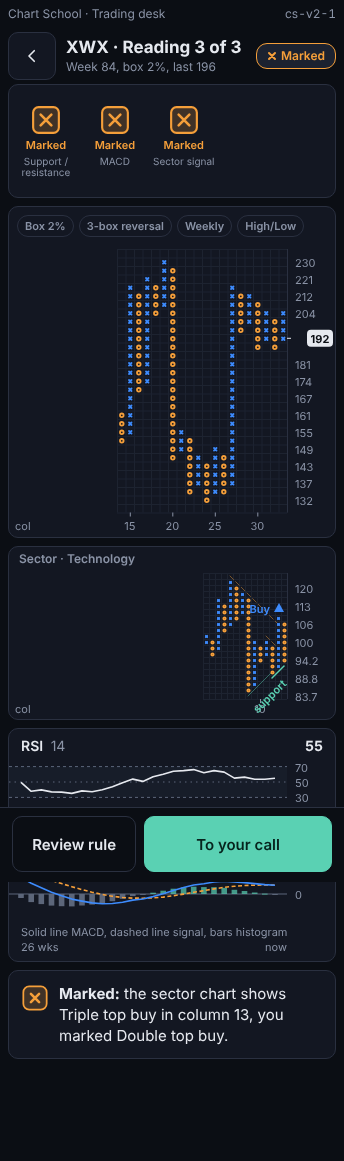
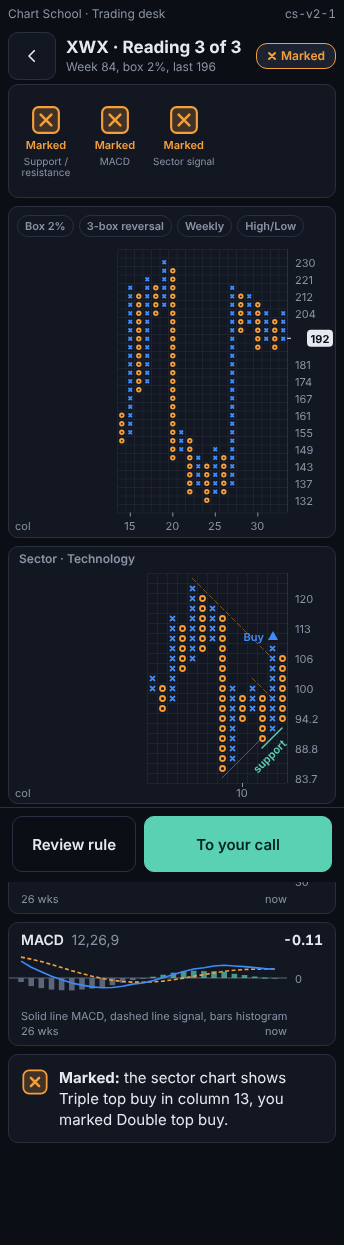
Chart School cs-v2-1 WIP: look pass in progress
Claude-Session: https://claude.ai/code/session_01Lcw2xuLJ88ywuYr8YehYo4

diff --git a/pages/chart-school/index.html b/pages/chart-school/index.html
@@ -1136,8 +1136,13 @@ function openTweaks() {
         var xmin = Math.max(XO, cx(jf) + c / 2) + hw - off, xmax = Math.min(pw, cx(jl) + c / 2) - hw - off;
         var xm = cx(jf + (jl - jf) * 0.5) + c / 2;
         if (xmax >= xmin) xm = Math.max(xmin, Math.min(xmax, xm)); else xm = Math.min(xm, pw - hw - off);
-        var mj = (xm - c / 2 - pw) / c + nCols, mb = sg.box0 + (up ? 1 : -1) * (mj - sg.col0);
-        var lx = xm + off, ly = cy(mb) + (up ? off : -off);
+        function lyAt(x0) { var m0 = (x0 - c / 2 - pw) / c + nCols; return cy(sg.box0 + (up ? 1 : -1) * (m0 - sg.col0)) + (up ? off : -off); }
+        if (xmax >= xmin && (lyAt(xm) < hw || lyAt(xm) > ph - hw)) { // keep it inside the plot vertically too: slide along the line
+          var bx2 = null;
+          for (var xs = xmin; xs <= xmax + 0.01; xs += c / 2) { var yv = lyAt(xs); if (yv >= hw && yv <= ph - hw && (bx2 == null || Math.abs(xs - xm) < Math.abs(bx2 - xm))) bx2 = xs; }
+          if (bx2 != null) xm = bx2;
+        }
+        var lx = xm + off, ly = lyAt(xm);
         el(g, "text", { x: f1(lx), y: f1(ly), transform: "rotate(" + (up ? -45 : 45) + " " + f1(lx) + " " + f1(ly) + ")", "text-anchor": "middle", "dominant-baseline": "central", "font-size": 11, "font-weight": 600, fill: clr }, lbl);
       });
     });
@@ -1752,7 +1757,7 @@ function openTweaks() {
     if (showSector(c, type)) {
       var sov = [];
       if (type !== "S2") { var t2 = trendOv(c.sec.eng); if (t2) sov.push(t2); }
-      drawSector(c, { overlays: sov });
+      drawSector(c, { overlays: sov, maxPlotH: isSec(type) ? 220 : null }); /* sector reading: the sector chart is the subject */
     }
     drawPanes(show, closes, {});
     bar([
@@ -1858,7 +1863,7 @@ function openTweaks() {
       secPane(c, type) + paneHtml(show, closes) + msg + '</div>';
 
     drawChart(c, { overlays: ov, pick: null });
-    if (showSector(c, type)) drawSector(c, { overlays: sov });
+    if (showSector(c, type)) drawSector(c, { overlays: sov, maxPlotH: isSec(type) ? 220 : null });
     drawPanes(show, closes, { rsiMark: (type === "R7" && R.R7 && R.R7.ref != null) ? { t: R.R7.ref } : null });
     bar([
       { act: "rule", label: "Review rule", kind: "out" },

diff --git a/pages/chart-school/src/chart.js b/pages/chart-school/src/chart.js
@@ -147,8 +147,13 @@
         var xmin = Math.max(XO, cx(jf) + c / 2) + hw - off, xmax = Math.min(pw, cx(jl) + c / 2) - hw - off;
         var xm = cx(jf + (jl - jf) * 0.5) + c / 2;
         if (xmax >= xmin) xm = Math.max(xmin, Math.min(xmax, xm)); else xm = Math.min(xm, pw - hw - off);
-        var mj = (xm - c / 2 - pw) / c + nCols, mb = sg.box0 + (up ? 1 : -1) * (mj - sg.col0);
-        var lx = xm + off, ly = cy(mb) + (up ? off : -off);
+        function lyAt(x0) { var m0 = (x0 - c / 2 - pw) / c + nCols; return cy(sg.box0 + (up ? 1 : -1) * (m0 - sg.col0)) + (up ? off : -off); }
+        if (xmax >= xmin && (lyAt(xm) < hw || lyAt(xm) > ph - hw)) { // keep it inside the plot vertically too: slide along the line
+          var bx2 = null;
+          for (var xs = xmin; xs <= xmax + 0.01; xs += c / 2) { var yv = lyAt(xs); if (yv >= hw && yv <= ph - hw && (bx2 == null || Math.abs(xs - xm) < Math.abs(bx2 - xm))) bx2 = xs; }
+          if (bx2 != null) xm = bx2;
+        }
+        var lx = xm + off, ly = lyAt(xm);
         el(g, "text", { x: f1(lx), y: f1(ly), transform: "rotate(" + (up ? -45 : 45) + " " + f1(lx) + " " + f1(ly) + ")", "text-anchor": "middle", "dominant-baseline": "central", "font-size": 11, "font-weight": 600, fill: clr }, lbl);
       });
     });

diff --git a/pages/chart-school/src/screens-b.js b/pages/chart-school/src/screens-b.js
@@ -169,7 +169,7 @@
     if (showSector(c, type)) {
       var sov = [];
       if (type !== "S2") { var t2 = trendOv(c.sec.eng); if (t2) sov.push(t2); }
-      drawSector(c, { overlays: sov });
+      drawSector(c, { overlays: sov, maxPlotH: isSec(type) ? 220 : null }); /* sector reading: the sector chart is the subject */
     }
     drawPanes(show, closes, {});
     bar([
@@ -275,7 +275,7 @@
       secPane(c, type) + paneHtml(show, closes) + msg + '</div>';
 
     drawChart(c, { overlays: ov, pick: null });
-    if (showSector(c, type)) drawSector(c, { overlays: sov });
+    if (showSector(c, type)) drawSector(c, { overlays: sov, maxPlotH: isSec(type) ? 220 : null });
     drawPanes(show, closes, { rsiMark: (type === "R7" && R.R7 && R.R7.ref != null) ? { t: R.R7.ref } : null });
     bar([
       { act: "rule", label: "Review rule", kind: "out" },
